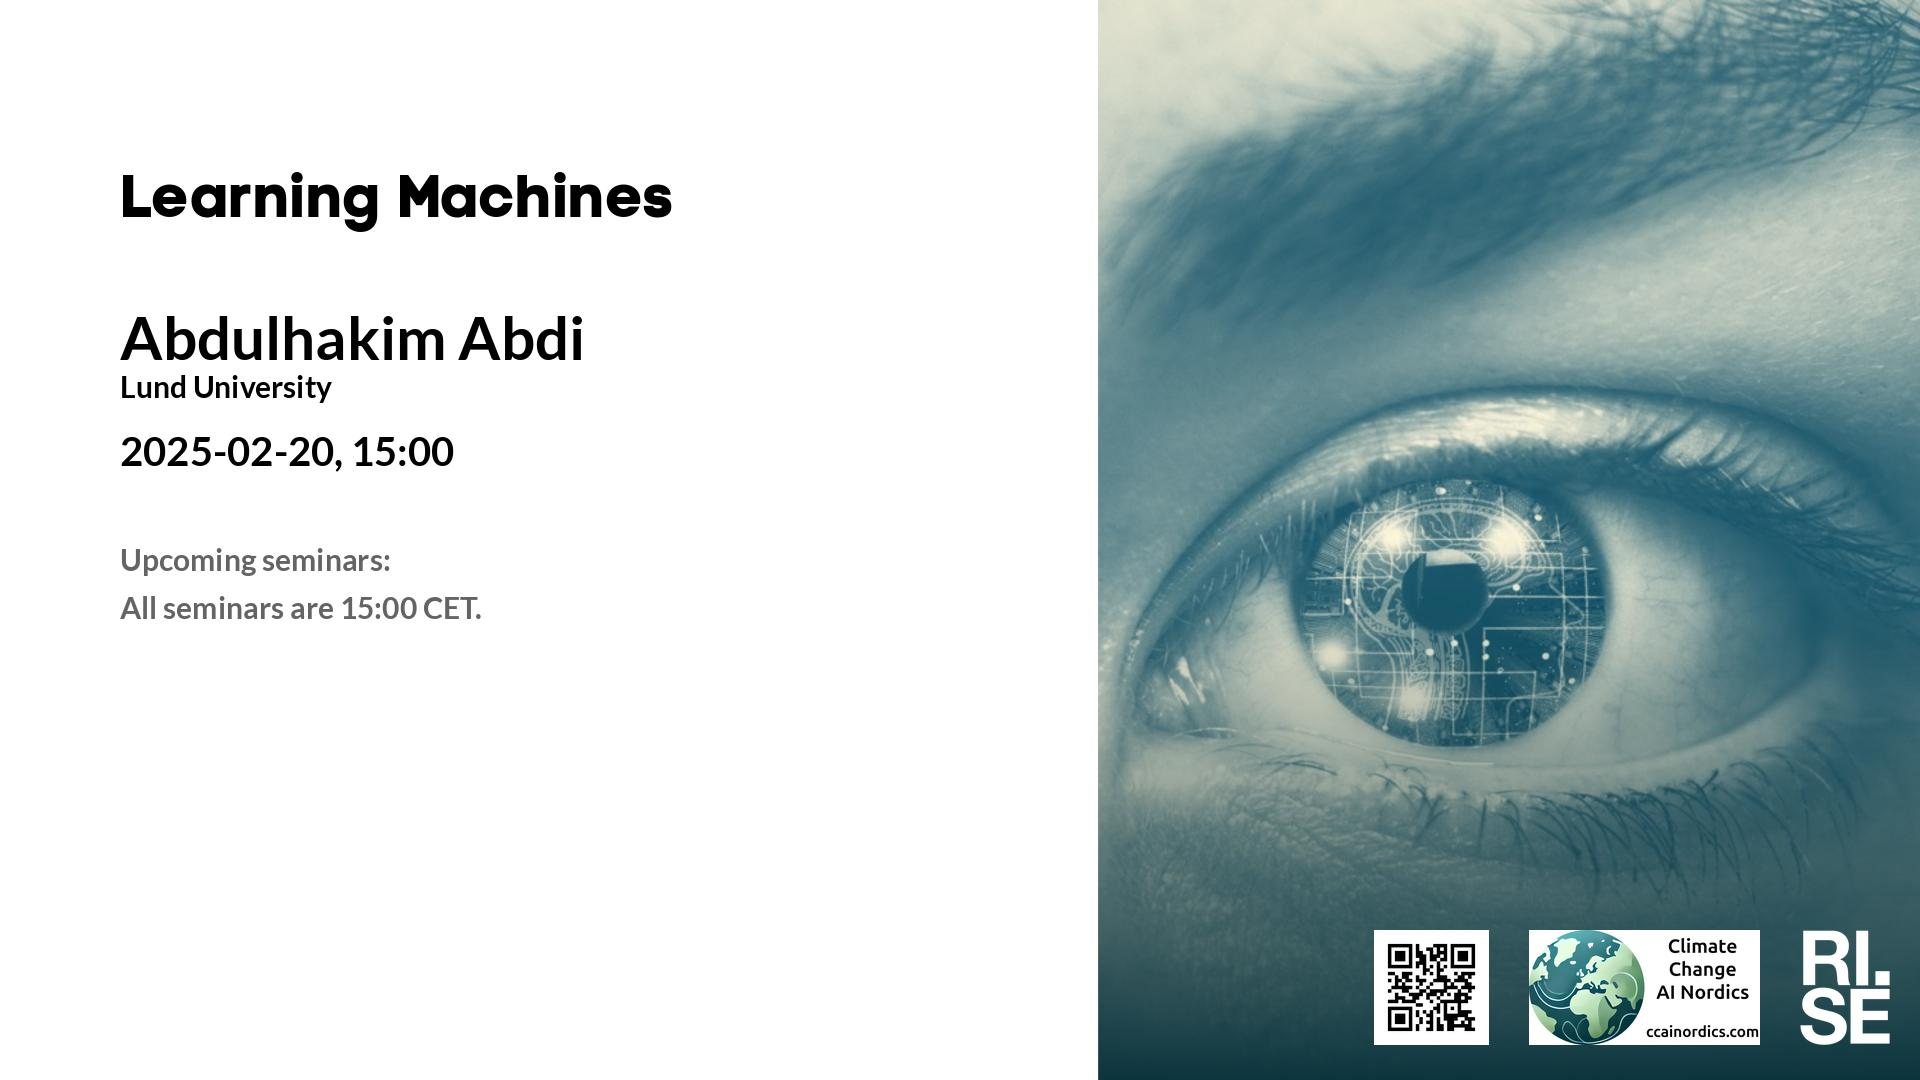
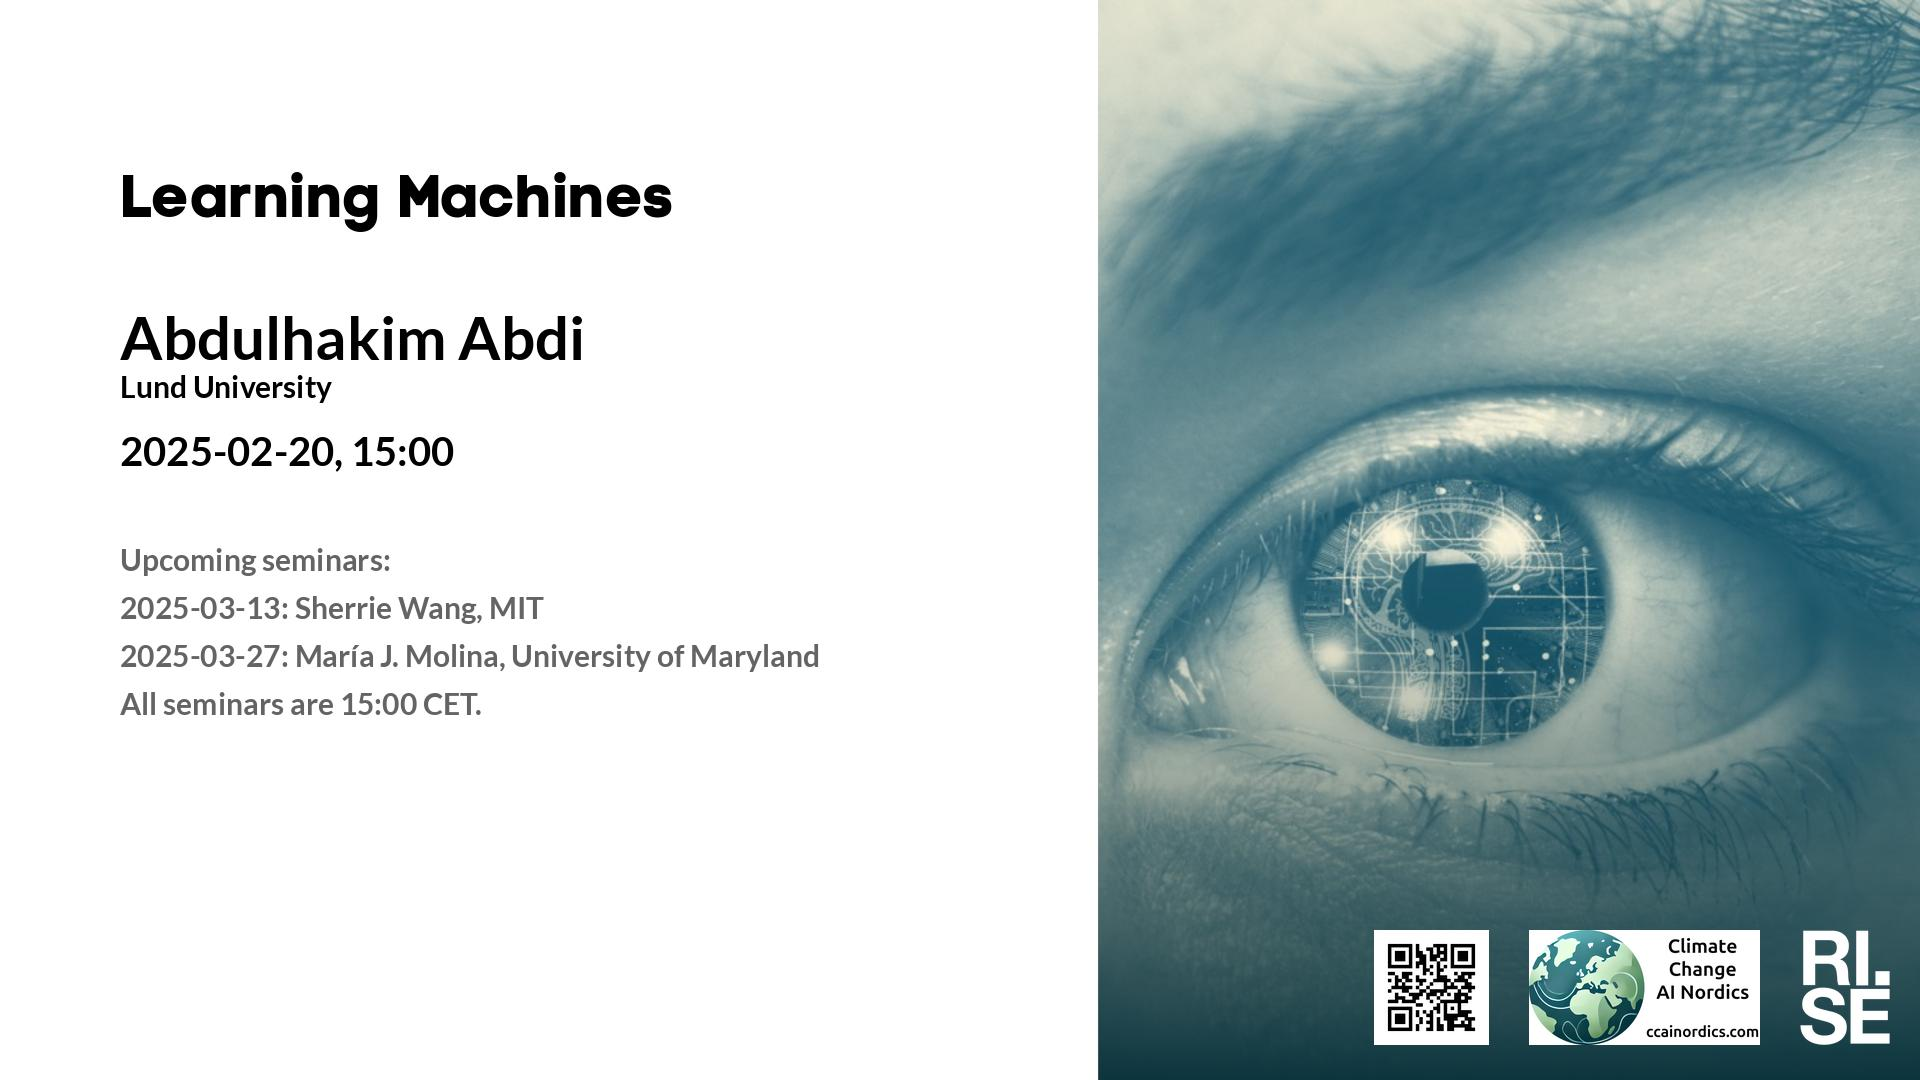
Updated plan on web site.

Changed region(s): [[0.0625, 0.55, 0.4375, 0.6722]]

diff --git a/lm/index.md b/lm/index.md
@@ -22,7 +22,7 @@ table {border-collapse: collapse;}
 |  2025-02-20  |  [Abdulhakim Abdi, Lund University](2025-02-20.md)  |  [photo](photo-abdulhakim-abdi.jpg)  |  [social media ](social-media-abdulhakim-abdi.jpg)  |  [meeting backdrop ](meeting-backdrop-abdulhakim-abdi.jpg)  |  [youtube thumbnail ](youtube-thumbnail-abdulhakim-abdi.jpg)  |  S~~TAB~~P  |
 | <span style="color:red"> 2025-02-27 </span> | <span style="color:red"> Sportlov STHLM </span> | <span style="color:red">  </span> | <span style="color:red">  </span> | <span style="color:red">  </span> | <span style="color:red">  </span> | <span style="color:red"> CANCELLED </span> |
 | <span style="color:grey"> 2025-03-06 </span> | <span style="color:grey"> Atakan A. ? </span> | <span style="color:grey">  </span> | <span style="color:grey">  </span> | <span style="color:grey">  </span> | <span style="color:grey">  </span> | <span style="color:grey"> S~~TABP~~ </span> |
-| <span style="color:grey"> 2025-03-13 </span> | <span style="color:grey"> Sherrie W. ? </span> | <span style="color:grey">  </span> | <span style="color:grey">  </span> | <span style="color:grey">  </span> | <span style="color:grey">  </span> | <span style="color:grey"> S~~TA~~B~~P~~ </span> |
+|  2025-03-13  |  [Sherrie Wang, MIT](2025-03-13.md)  |    |  [social media ](social-media-sherrie-wang.jpg)  |  [meeting backdrop ](meeting-backdrop-sherrie-wang.jpg)  |  [youtube thumbnail ](youtube-thumbnail-sherrie-wang.jpg)  |  S~~TA~~B~~P~~  |
 | <span style="color:grey"> 2025-03-20 </span> | <span style="color:grey"> Sasha L. ? </span> | <span style="color:grey">  </span> | <span style="color:grey">  </span> | <span style="color:grey">  </span> | <span style="color:grey">  </span> | <span style="color:grey"> S~~TABP~~ </span> |
 |  2025-03-27  |  [María J. Molina, University of Maryland](2025-03-27.md)  |  [photo](photo-maria-j.-molina.jpg)  |  [social media ](social-media-maria-j.-molina.jpg)  |  [meeting backdrop ](meeting-backdrop-maria-j.-molina.jpg)  |  [youtube thumbnail ](youtube-thumbnail-maria-j.-molina.jpg)  |  S~~TAB~~P  |
 | <span style="color:purple"> 2025-04-03 </span> | <span style="color:purple"> *Up for grabs!!!* </span> | <span style="color:purple">  </span> | <span style="color:purple">  </span> | <span style="color:purple">  </span> | <span style="color:purple">  </span> | <span style="color:purple"> ~~STABP~~ </span> |

diff --git a/lm/2025-03-13.md b/lm/2025-03-13.md
@@ -1,0 +1,34 @@
+---
+layout: default
+metatags: "<meta name=\"robots\" content=\"noindex,nofollow\" />"
+---
+ 
+Welcome to this week's Learning Machines seminar.
+
+This seminar is a collaboration between RISE and Climate Change AI Nordics -- [ccainordics.com](https://ccainordics.com/).
+
+**Title:** N/A
+
+**Speaker:** Sherrie Wang, MIT
+
+**Abstract:** N/A
+
+**About the speaker:** Sherrie Wang’s research uses novel data and computational algorithms to monitor our planet and enable sustainable development. Her focus is on improving agricultural management and mitigating climate change, especially in low- or middle-income regions of the world. To this end, she frequently uses satellite imagery, crowdsourced data, LiDAR, and other spatial data. Due to the scarcity of ground truth data in these regions and the noisiness of real-world data in general, her methodological work is geared toward developing machine learning methods that work well with these constraints.
+
+Prior to MIT, Wang was a Ciriacy-Wantrup Postdoctoral Fellow at UC Berkeley, hosted by Solomon Hsiang and the Global Policy Lab. In 2021, she obtained her PhD in Computational and Mathematical Engineering from Stanford University, where she was advised by David Lobell and benefited from mentors at the Center on Food Security and the Environment and the Sustainability and AI Lab.
+
+**Location:** This is an online seminar. Connect using Zoom.
+
+**Date:** 2025-03-13 15:00
+
+**Zoom link:** [N/A](N/A)
+
+**Upcoming seminars:**
+
+* 2025-03-27: María J. Molina, University of Maryland
+* All seminars are 15:00 CET.
+
+More information and coming seminars: [https://ri.se/lm-sem](https://ri.se/lm-sem)
+
+-- The Learning Machines Team
+

diff --git a/lm/2025-02-20.md b/lm/2025-02-20.md
@@ -23,6 +23,8 @@ This seminar is a collaboration between RISE and Climate Change AI Nordics -- [c
 
 **Upcoming seminars:**
 
+* 2025-03-13: Sherrie Wang, MIT
+* 2025-03-27: María J. Molina, University of Maryland
 * All seminars are 15:00 CET.
 
 More information and coming seminars: [https://ri.se/lm-sem](https://ri.se/lm-sem)
